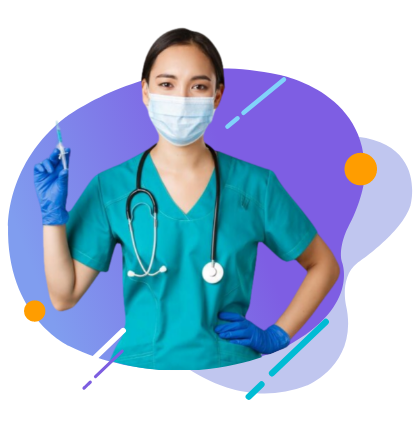
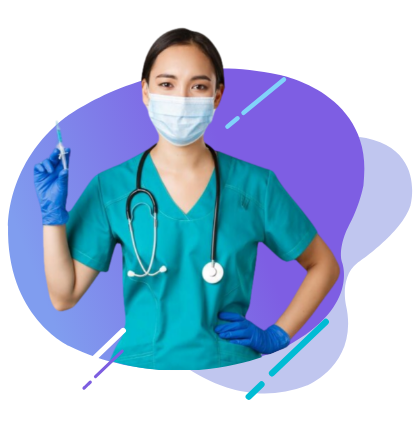
Ajustes 2

Changed region(s): [[0.8048, 0.3333, 0.8976, 0.4545], [0.0619, 0.697, 0.1238, 0.7576]]

diff --git a/src/config/global.js b/src/config/global.js
@@ -6,7 +6,12 @@ export default {
       'El uso seguro de los medicamentos envuelve a los pacientes, cuidadores, personal de salud calificado, instituciones prestadoras de servicios de salud y demás actores del Sistema General de Seguridad Social en Salud; ya que comprende las acciones de detección, prevención y tratamiento oportuno de los eventos adversos relacionados con la administración de medicamentos.',
     imagenBannerPrincipal: require('@/assets/curso/portada/banner-principal.png'),
     fondoBannerPrincipal: require('@/assets/curso/portada/fondo-banner-principal.png'),
-    imagenesDecorativasBanner: [],
+    imagenesDecorativasBanner: [
+      {
+        clases: ['banner-principal-decorativo-1', 'd-none', 'd-lg-block'],
+        imagen: require('@/assets/curso/portada/banner-principal-decorativo-1.svg'),
+      },
+    ],
   },
   menuPrincipal: {
     menu: [

diff --git a/src/styles/_custom.sass b/src/styles/_custom.sass
@@ -1,14 +1,21 @@
-.banner-principal__row .banner-principal__img
-  width: 400px
-  animation: float1 5s ease-in-out infinite alternate
-  position: relative
+.banner-principal-decorativo
+  &-1
+    animation: rotation 9s infinite linear
+    position: absolute
+    width: 108%
+    bottom: 45%
+    left: -10%
 
-
-@keyframes float1
+@keyframes rotation
   0%
-    transform: translateY(20px)
+    transform: rotate(0deg)
+    opacity: 0
+  50%
+    transform: rotate(180deg)
+    opacity: 1
   100%
-    transform: translateY(0px)
+    transform: rotate(359deg)
+    opacity: 0
   
 .lista-ul--color li, .ol.lista-ol--cuadro li, .lista-ol--cuadro li, .lista-ul--separador li
   display: flex

diff --git a/README.md b/README.md
@@ -2,7 +2,7 @@
 
 ## **Enlace GitHubPages**
 
-[https://github.com/ECORED-BOGOTA-DC/CF24_REGENCIA_FARMACIA](https://github.com/ECORED-BOGOTA-DC/CF24_REGENCIA_FARMACIA)
+[https://ecored-bogota-dc.github.io/CF24_REGENCIA_FARMACIA/#/](https://ecored-bogota-dc.github.io/CF24_REGENCIA_FARMACIA/#/)
 
 #
 
